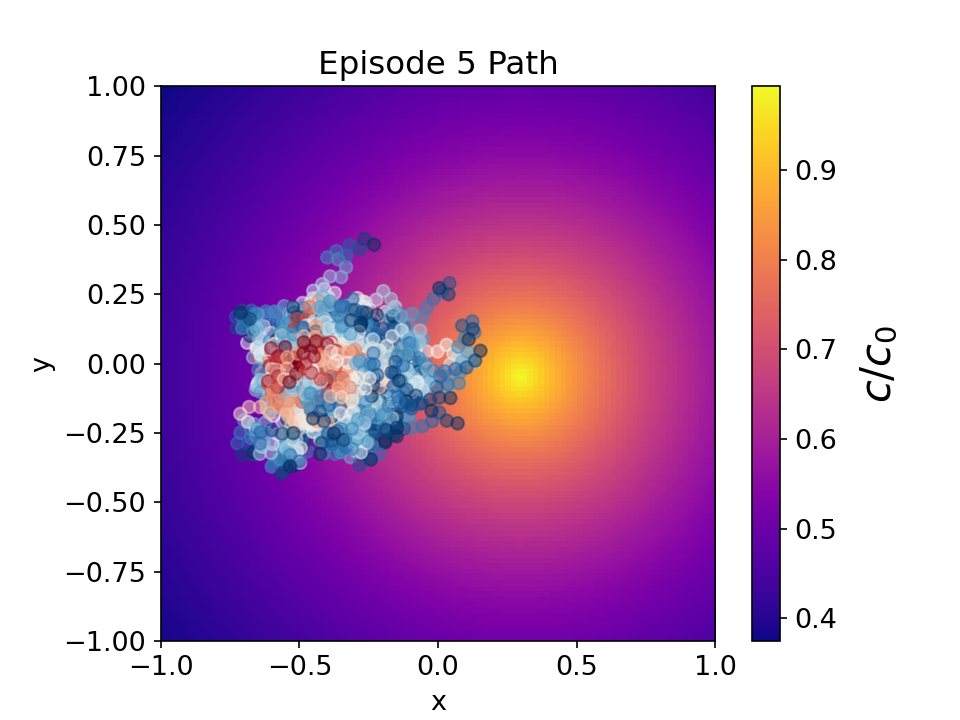
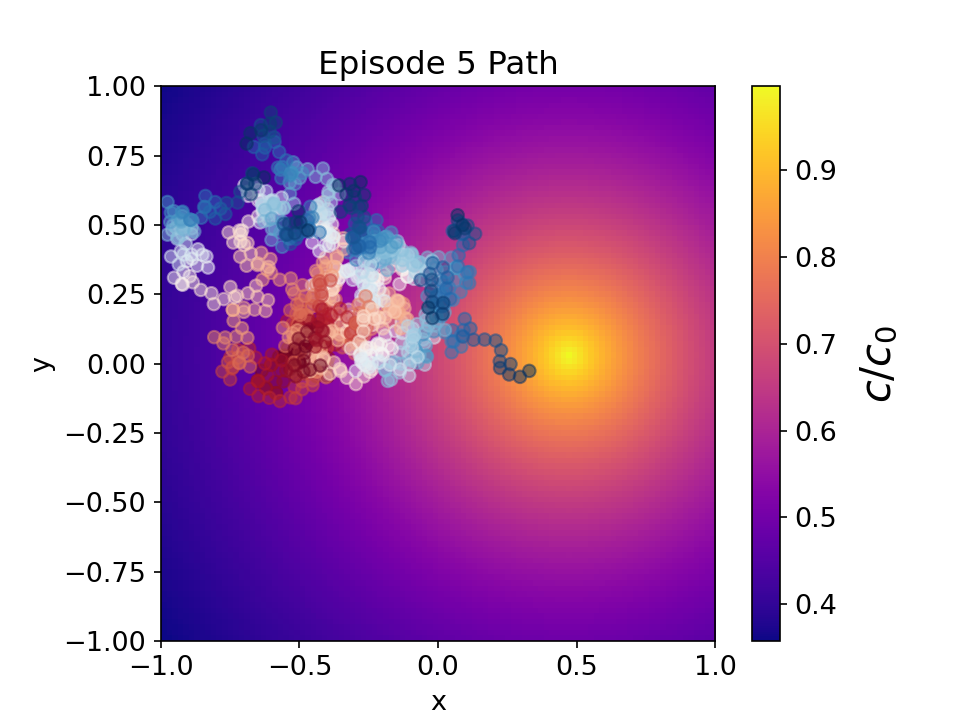
noise computation corrected

diff --git a/environments.py b/environments.py
@@ -14,8 +14,7 @@ class BoxEnvironment1():
         x, y = self.state[:,0], self.state[:,1]
         theta = action[:,0]
         #thermal noise
-        noise = np.random.normal(np.zeros(self.agent_batch_size),np.ones(self.agent_batch_size)*np.sqrt(dt))
-        # raise Exception(theta.shape, noise.shape)
+        noise = np.random.normal(np.zeros(self.agent_batch_size), np.ones(self.agent_batch_size))
         theta = theta + np.sqrt(dt)*characteristic_length*noise
 
         e_x = np.cos(theta)
@@ -44,7 +43,6 @@ class BoxEnvironment1():
         wincondition = np.array(self.goal_check()).astype(int)
         reward += wincondition*1000
         reward -= not_inside_space*10
-        # reward -= np.linalg.norm(position-self.goal.center, axis=1)*10
 
         return reward
     
@@ -54,6 +52,6 @@ class BoxEnvironment1():
         return wincondition
 
 
-def compute_concentration(position, center, U0):
+def compute_concentration(position, center, c0):
     r = np.linalg.norm(position-center, axis=1)
-    return U0/(1+r)
+    return c0/(1+r)

diff --git a/plot_utils.py b/plot_utils.py
@@ -5,9 +5,8 @@ import shutil
 from matplotlib import patches
 
 class RLPlotter():
-    def __init__(self, logger, goal_area):
+    def __init__(self, logger):
         self.logger = logger
-        self.goal_area = goal_area
     
     def update_goal(self, goal_area):
         self.goal_area = goal_area
